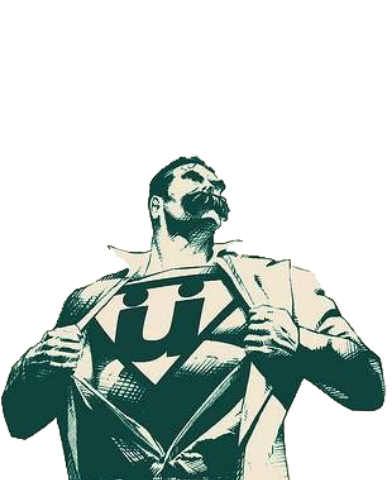
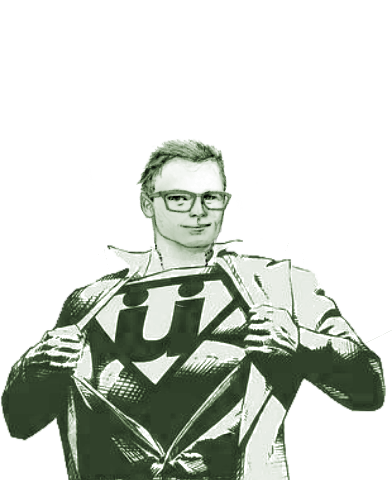
Update own player subpage plus minor fixes
added <!-- footer --> tag to all pages.
Updated own player page with more accurate details.
updated ubermensch image...

Changed region(s): [[0.0, 0.2812, 0.9796, 1.0]]

diff --git a/squadPages/jesper.html b/squadPages/jesper.html
@@ -26,7 +26,7 @@
                 <div class="playerPic">
                     <div class="head" id="playerName">Jesper</div>
                     <div class="head" id="alterEgo">"Übermensch"</div>
-                    <img src="../img/squad/jesper.png" alt="Jesper" class="image">
+                    <img src="../img/squad/jesper.png" alt="Jesper" class="playerImage">
                 </div>
                 
                 <div class="subHead2" id="playerMail">Holla @ your <a href="mailto:273961@via.dk">hero</a></div>
@@ -35,7 +35,13 @@
                 <div class="playerInfo">
                         <div class="subHead1" id="playerBio">Biography</div>
                     
-                        <div class="text">With more than twelve years of experience from the danish army Jesper has the tactical skills and stamina needed to be apart of the world famous VIA squad.</div>
+                        <div class="text">With more than twelve years of experience in the dark dungeons of the danish army.
+                            Jesper has amazing tactical and technical skills which stands him apart.
+                            Jesper is often referred to as <strong>Wiz</strong>, <strong>Wizard</strong>, or simply <strong>Übermensch</strong>.
+                            <br>
+                            People close to Jesper sometimes referer to him as half human, half robot, because it seems like he can <strong>apply AI</strong> to every situation.
+
+                        </div>
                             
                         <div class="text"></div>
     
@@ -68,7 +74,9 @@
                                 <li>Tactical combat skills</li>
                                 <li>Cyber warfare</li>
                                 <li>Digital forensic</li>
+                                <li>AI focal skills</li>
                                 <li>Superhuman geek skills</li>
+                                <li>Can chuck loads of beer in the fridays</li>
                             </ul>
                         </div>
                                 
@@ -78,6 +86,7 @@
                             <ul>
                                 <li>Global Business students</li>
                                 <li>Java</li>
+                                <li>Captain Marvel <3</li>
                             </ul>
                         </div>          
                     </div>
@@ -88,7 +97,8 @@
           
         </div>
     </div>
-        
+    <!--footer start -->
+    <!-- footer end -->
 </body>
 <!-- body end -->
 </html>

diff --git a/about.html b/about.html
@@ -88,14 +88,14 @@
           <div class="floatbox-wrapper">
             <div class="floatbox-upper"><span><strong>Contact information</strong></span></div>
             <div class="floatbox-under text">
-
-              <p><strong>VIAClub</strong></p>
-              <p>C/O OldEnuff</p>
-              <p>Avenger street 8</p>
-              <p>PO: Asgard</p>
-              <p>Tel: 0045 88888888</p>
-              <p><a href="mailto:info@Viaclub.com">info@viaclub.com</a>
-
+                <div>
+                      <p><strong>VIAClub</strong></p>
+                      <p>C/O OldEnuff</p>
+                      <p>Avenger street 8</p>
+                      <p>PO: Asgard</p>
+                      <p>Tel: 0045 88888888</p>
+                      <p><a href="mailto:info@Viaclub.com">info@viaclub.com</a>
+                </div>
             </div>
           </div>
           <!-- Hours box -->
@@ -103,13 +103,14 @@
           <div class="floatbox-wrapper">
             <div class="floatbox-upper"><span><strong>Opening hours</strong></span></div>
             <div class="floatbox-under text">
-
-              <p><strong>Monday</strong></p>
-              <p>Closed - (10:00 - 17:00 in July and August)</p>
-              <p><strong>Tuesday to Sunday (May - October)</strong></p>
-              <p>10:00 - 17:00</p>
-              <p><strong>Tuesday to Sunday (November - April)</strong></p>
-              <p>10:00 - 16:00</p>
+                <div>
+                      <p><strong>Monday</strong></p>
+                      <p>Closed - (10:00 - 17:00 in July and August)</p>
+                      <p><strong>Tuesday to Sunday (May - October)</strong></p>
+                      <p>10:00 - 17:00</p>
+                      <p><strong>Tuesday to Sunday (November - April)</strong></p>
+                      <p>10:00 - 16:00</p>
+                </div>
             </div>
           </div>
 
@@ -142,7 +143,8 @@
       <!-- Content end -->
     </div>
   </div>
-
+    <!--footer start -->
+    <!-- footer end -->
 </body>
 <!-- body end -->
 

diff --git a/index.html b/index.html
@@ -90,22 +90,24 @@
               </div>
 
 
-          <!-- Event box #2 -->
+			<!-- Event box #2 -->
 
             <div class="floatbox-wrapper">
               <div class="floatbox-upper"><span><strong>Upcoming events</strong></span></div>
               <div class="floatbox-under text">
-                <ul>
-                  <li>
-                        <p><strong>27-03-2019:</strong> Midtjylland vs VIA CLUB</p>
-                  </li>
-                  <li>
-                        <p><strong>31-03-2019:</strong> Odense B vs VIA CLUB</p>
-                  </li>
-                  <li>
-                        <p><strong>2-04-2019:</strong> Randers vs VIA CLUB</p>
-                  </li>
-                </ul>
+                  <div>
+                        <ul>
+                          <li>
+                                <p><strong>27-03-2019:</strong> Midtjylland vs VIA CLUB</p>
+                          </li>
+                          <li>
+                                <p><strong>31-03-2019:</strong> Odense B vs VIA CLUB</p>
+                          </li>
+                          <li>
+                                <p><strong>2-04-2019:</strong> Randers vs VIA CLUB</p>
+                          </li>
+                        </ul>
+                  </div>
               </div>
             </div>
 

diff --git a/game_details.html b/game_details.html
@@ -42,12 +42,15 @@ Hallur Hansson and Bjarke Jacobsen scored the guests' two goals in the second ha
 		<!-- Content end -->
         </div>
     </div>
+    <!--footer start -->
+
     <div class="footer">
     <footer>
       <li><a href="#">About us</a></li>
       <li><a href="#">Contact us</a></li>
       <li><a href="#">Privacy</a></li>
     </footer>
+        <!-- footer end -->
 </body>
 <!-- body end -->
 </html>

diff --git a/games.html b/games.html
@@ -161,12 +161,14 @@
 		<!-- Content end -->
         </div>
     </div>
+    <!-- footer start -->
     <div class="footer">
     <footer>
       <li><a href="#">About us</a></li>
       <li><a href="#">Contact us</a></li>
       <li><a href="#">Privacy</a></li>
     </footer>
+        <!-- footer end -->
 </body>
 <!-- body end -->
 </html>

diff --git a/detail Lyon.html b/detail Lyon.html
@@ -43,12 +43,14 @@
 		<!-- Content end -->
         </div>
     </div>
+    <!-- footer start -->
     <div class="footer">
     <footer>
       <li><a href="#">About us</a></li>
       <li><a href="#">Contact us</a></li>
       <li><a href="#">Privacy</a></li>
     </footer>
+        <!-- footer end -->
 </body>
 <!-- body end -->
 </html>

diff --git a/detail Rayo.html b/detail Rayo.html
@@ -43,12 +43,14 @@
 		<!-- Content end -->
         </div>
     </div>
+    <!-- footer start -->
     <div class="footer">
     <footer>
       <li><a href="#">About us</a></li>
       <li><a href="#">Contact us</a></li>
       <li><a href="#">Privacy</a></li>
     </footer>
+        <!-- footer end -->
 </body>
 <!-- body end -->
 </html>

diff --git a/detail Real Madrid.html b/detail Real Madrid.html
@@ -43,12 +43,14 @@
 		<!-- Content end -->
         </div>
     </div>
+    <!-- footer start -->
     <div class="footer">
     <footer>
       <li><a href="#">About us</a></li>
       <li><a href="#">Contact us</a></li>
       <li><a href="#">Privacy</a></li>
     </footer>
+        <!-- footer end -->
 </body>
 <!-- body end -->
 </html>

diff --git a/news.html b/news.html
@@ -24,12 +24,14 @@
 		<!-- Content end -->
         </div>
     </div>
+    <!-- footer start -->
     <div class="footer">
     <footer>
       <li><a href="#">About us</a></li>
       <li><a href="#">Contact us</a></li>
       <li><a href="#">Privacy</a></li>
     </footer>
+        <!-- footer end -->
 </body>
 <!-- body end -->
 </html>

diff --git a/players.html b/players.html
@@ -112,6 +112,7 @@
 		<!-- Content end -->
         </div>
     </div>
+    <!-- footer start -->
     <div class="footer">
     <footer>
       <li><a href="#">About us</a></li>
@@ -119,6 +120,7 @@
       <li><a href="#">Privacy</a></li>
     </footer>
     </div>
+    <!-- footer end -->
 </body>
 <!-- body end -->
 </html>

diff --git a/css/styles.css b/css/styles.css
@@ -162,9 +162,8 @@ body {
     width:100%;
 }
 
-.floatbox-under {
-    padding-top: 10px;
-    padding-bottom: 10px;
+.floatbox-under div{
+    padding: 10px;
 }
 
 .floatbox-under p {
@@ -267,7 +266,7 @@ body {
 
 
 .front_youtube {
-    display: flex; /* removes small gab */
+    display:flex;
     width: 100%;
 }
 

diff --git a/squadPages/batman.html b/squadPages/batman.html
@@ -90,7 +90,8 @@
           
         </div>
     </div>
-        
+    <!--footer start -->
+    <!-- footer end -->
 </body>
 <!-- body end -->
 </html>
